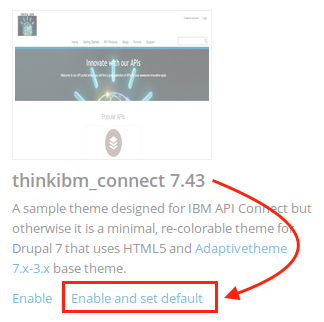
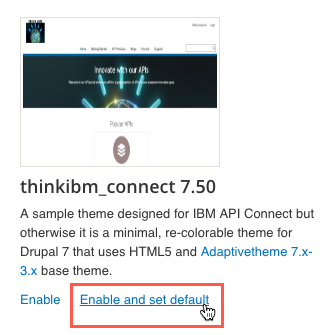
updating lab 7

Changed region(s): [[0.0309, 0.528, 0.9568, 0.9938], [0.0309, 0.0311, 0.6481, 0.4969], [0.5556, 0.0311, 0.6481, 0.0932]]

diff --git a/Lab 7 - Consumer Experience/README.md b/Lab 7 - Consumer Experience/README.md
@@ -60,29 +60,23 @@ Now that we have explained the contents of a custom theme file, it is time to lo
 
 	![](https://github.com/ibm-apiconnect/pot-bluemix-docs/raw/5030/img/lab7/InstallNewPortalTheme.png)
 
-1. Click the `Browse` button and navigate to the `/home/student/lab_files/lab7/` directory and select the `think_ibm_connect_theme.zip file`, then click the `Open` button.
+1. In the `Install from a URL` field, enter the following URL then click the `Install` button:
 
-	![](https://github.com/ibm-apiconnect/pot-bluemix-docs/raw/5030/img/lab7/open-theme-zip.png)
+	[https://thinkibm-services.mybluemix.net/portal/theme.zip](https://thinkibm-services.mybluemix.net/portal/theme.zip)
 
-1. Click the `Install` button to install the **ThinkIBM** custom theme.   
-
-	![](https://github.com/ibm-apiconnect/pot-bluemix-docs/raw/5030/img/lab7/InstallPortalThemeZipFile.png)
+	![](https://github.com/ibm-apiconnect/pot-bluemix-docs/raw/5030/img/lab7/install-theme.png)
     
-1. The installation of the custom theme completes. Click the `Enable newly added themes` link.
+1. Once the installation of the custom theme completes, click the `Enable newly added themes` link.
+
+	![](https://github.com/ibm-apiconnect/pot-bluemix-docs/raw/5030/img/lab7/enable-theme.png)
    
-1. Scroll down the list of themes to find the `thinkibm_connect 7.43` theme. Click the `Enable and set default link` link.
+1. Scroll down the list of themes to find the `thinkibm_connect 7.50` theme.
+
+	Click the `Enable and set default link` link.
 
 	![](https://github.com/ibm-apiconnect/pot-bluemix-docs/raw/5030/img/lab7/EnableandSetDefaultThinkIBMTheme.png)
-       
-1. We need to go into settings for the theme and save the configuration. Click the `Settings` link under the theme.
-
-	![](https://github.com/ibm-apiconnect/pot-bluemix-docs/raw/5030/img/lab7/ThinkIBMSettings.png)
-   
-1. Scroll down to the bottom of the settings page to find the **Toggle Display** section. Expand the **Toggle click the `Save Configuration` button at the bottom of the screen:
-
-	![](https://github.com/ibm-apiconnect/pot-bluemix-docs/raw/5030/img/lab7/ThinkIBMSaveConfiguration.png)
 	
-1. Click the `Home` icon to return to the home page.
+1. Click the `Home` icon in the top-left corner of the screen to return to the home page.
 
 	![](https://github.com/ibm-apiconnect/pot-bluemix-docs/raw/5030/img/lab7/CloseThemeSettings.png)
 
